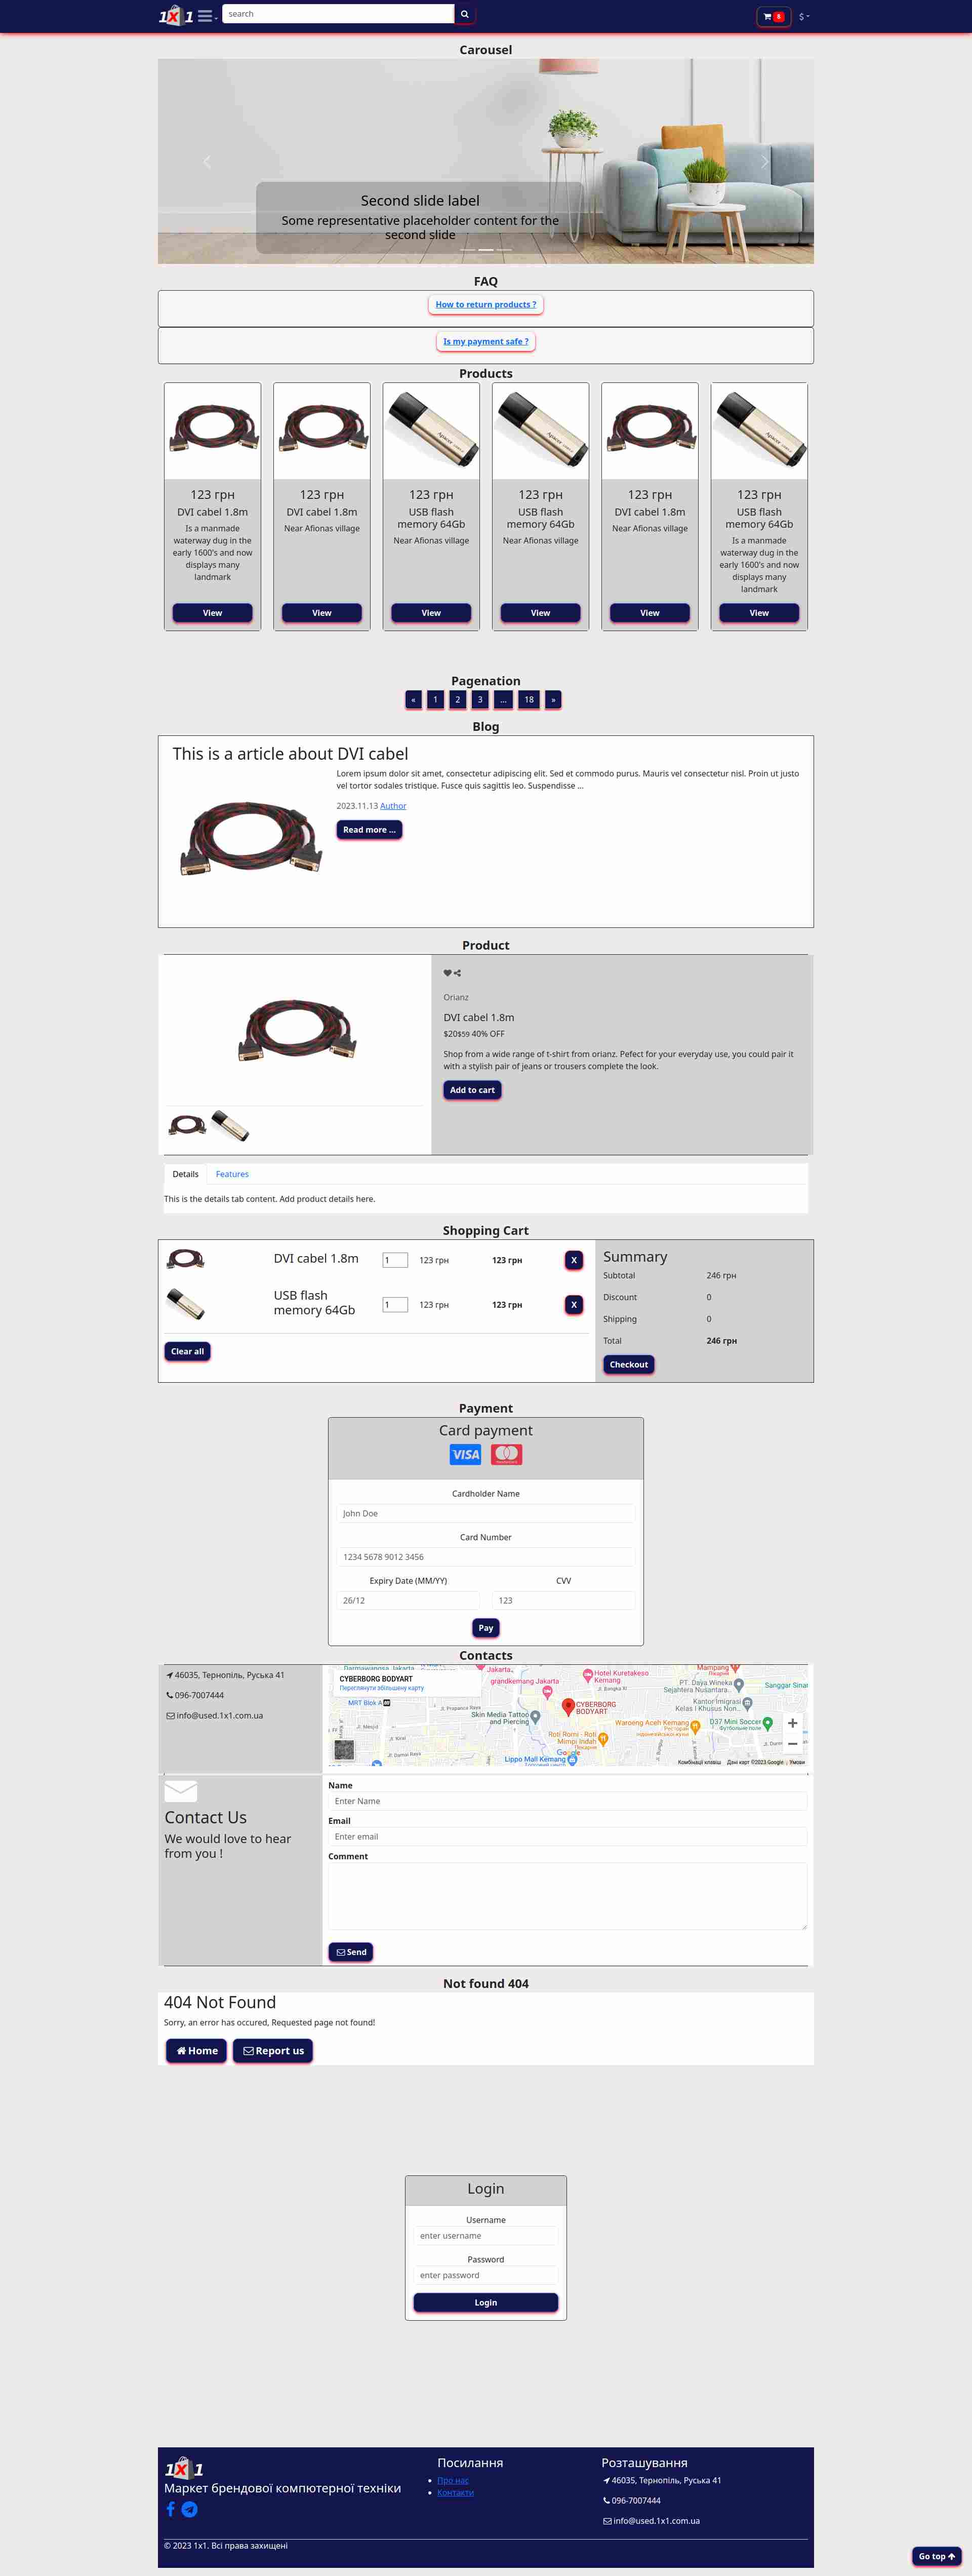
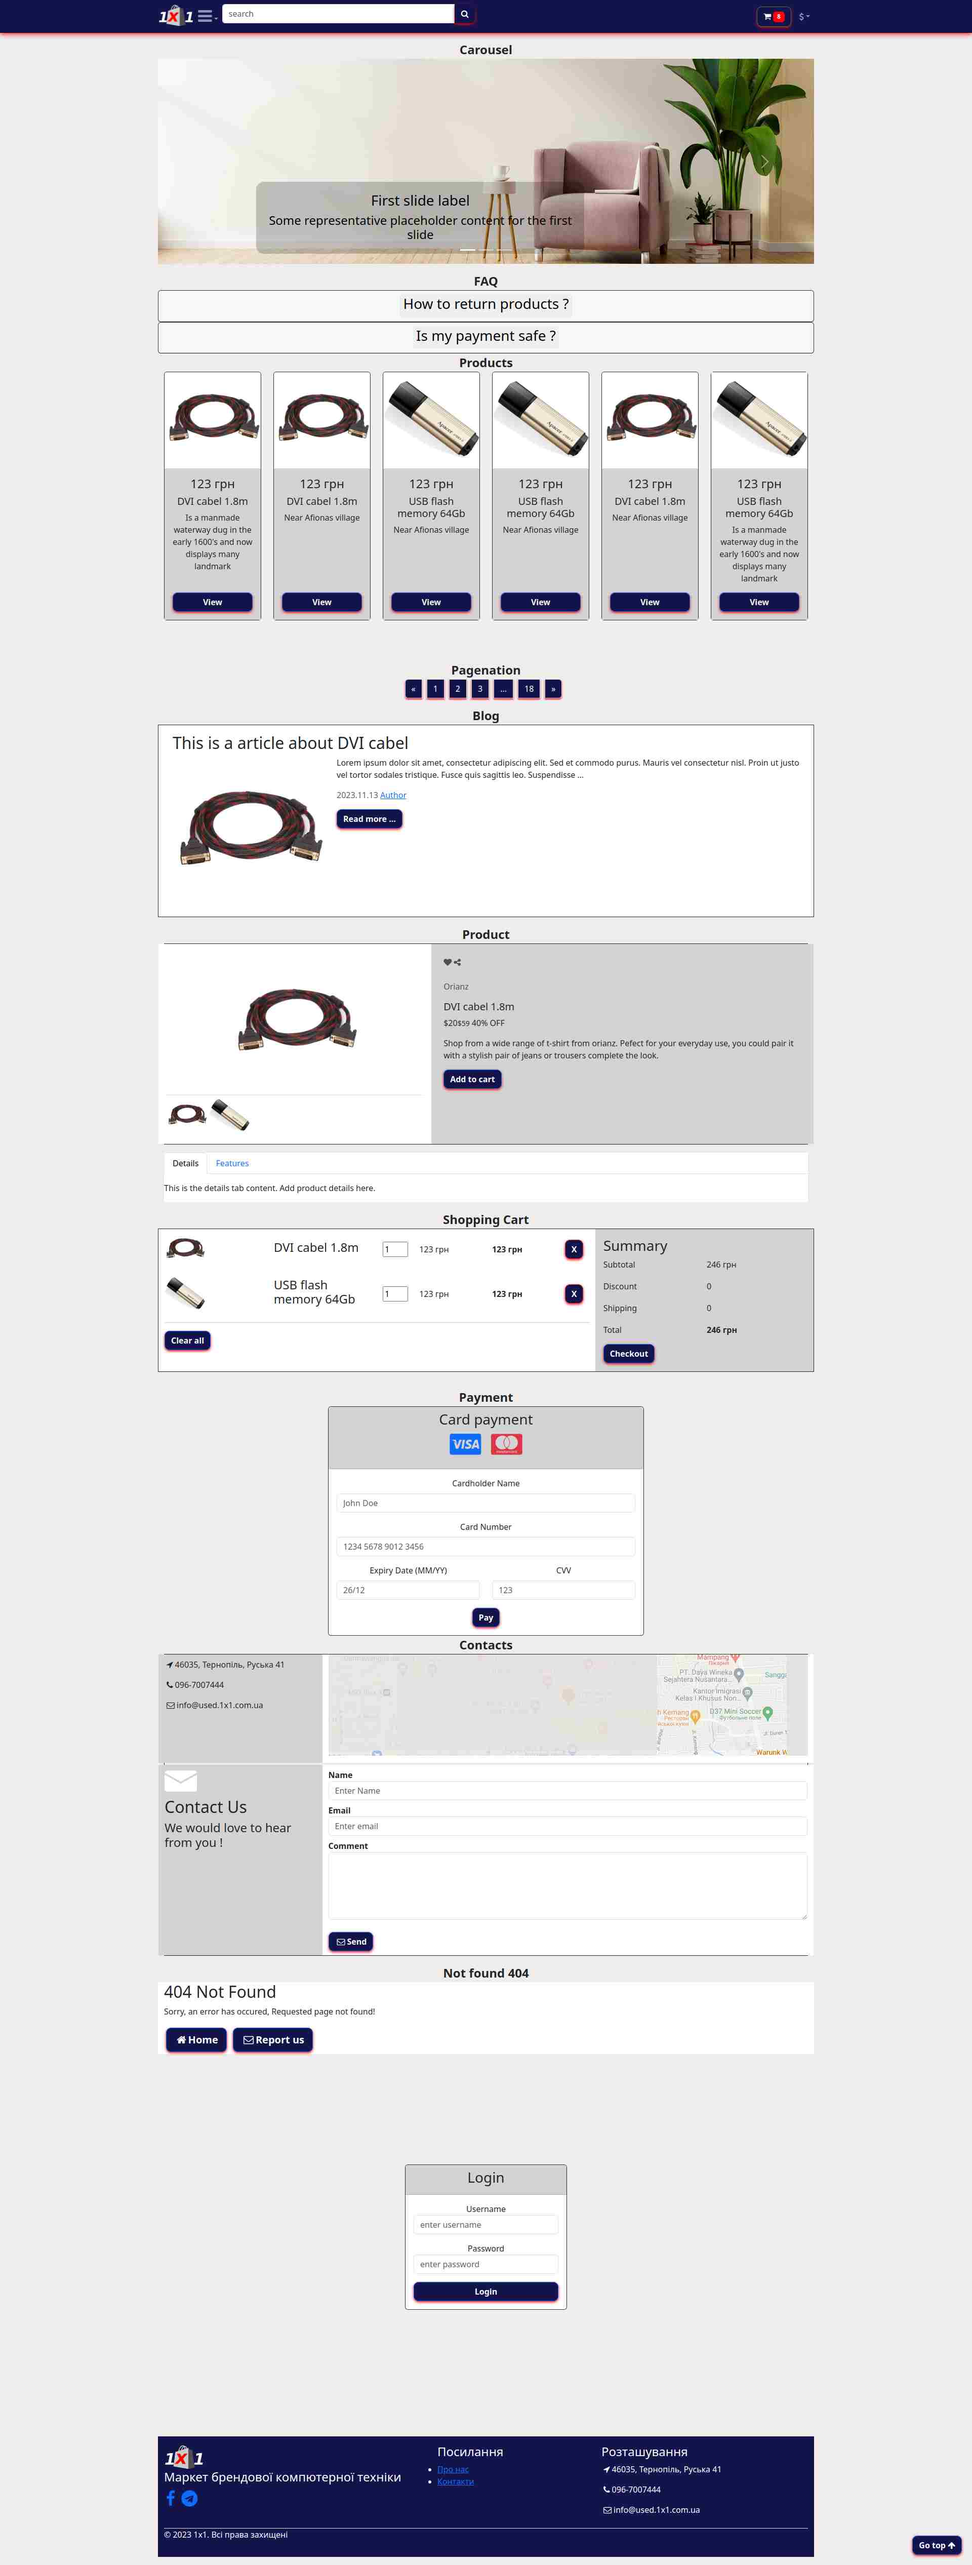
MyCommit

diff --git a/src/index.html b/src/index.html
@@ -125,12 +125,10 @@
     <div class="vTitle">FAQ</div>
 
     <div class="card">
-        <div class="card-header" id="heading_1">
-            <p>
-                <button class="btn btn-link collapsed bg-transparent text-primary" type="button" data-bs-toggle="collapse" data-bs-target="#collapse_1">
-                    How to return products ?
-                </button>
-            </p>
+        <div class="card-header d-flex_" id="heading_1">
+            <button class="border-0" data-bs-toggle="collapse" data-bs-target="#collapse_1">
+                <h3>How to return products ?</h3>
+            </button>
         </div>
         <div id="collapse_1" class="collapse" aria-labelledby="heading_1">
             <div class="card-body">
@@ -143,11 +141,9 @@
     </div>
     <div class="card">
         <div class="card-header" id="heading_2">
-            <p>
-                <button class="btn btn-link collapsed bg-transparent text-primary" type="button" data-bs-toggle="collapse" data-bs-target="#collapse_2">
-                    Is my payment safe ?
-                </button>
-            </p>
+            <button class="border-0" data-bs-toggle="collapse" data-bs-target="#collapse_2">
+                <h3>Is my payment safe ?</h3>
+            </button>
         </div>
         <div id="collapse_2" class="collapse" aria-labelledby="heading_2">
             <div class="card-body">
